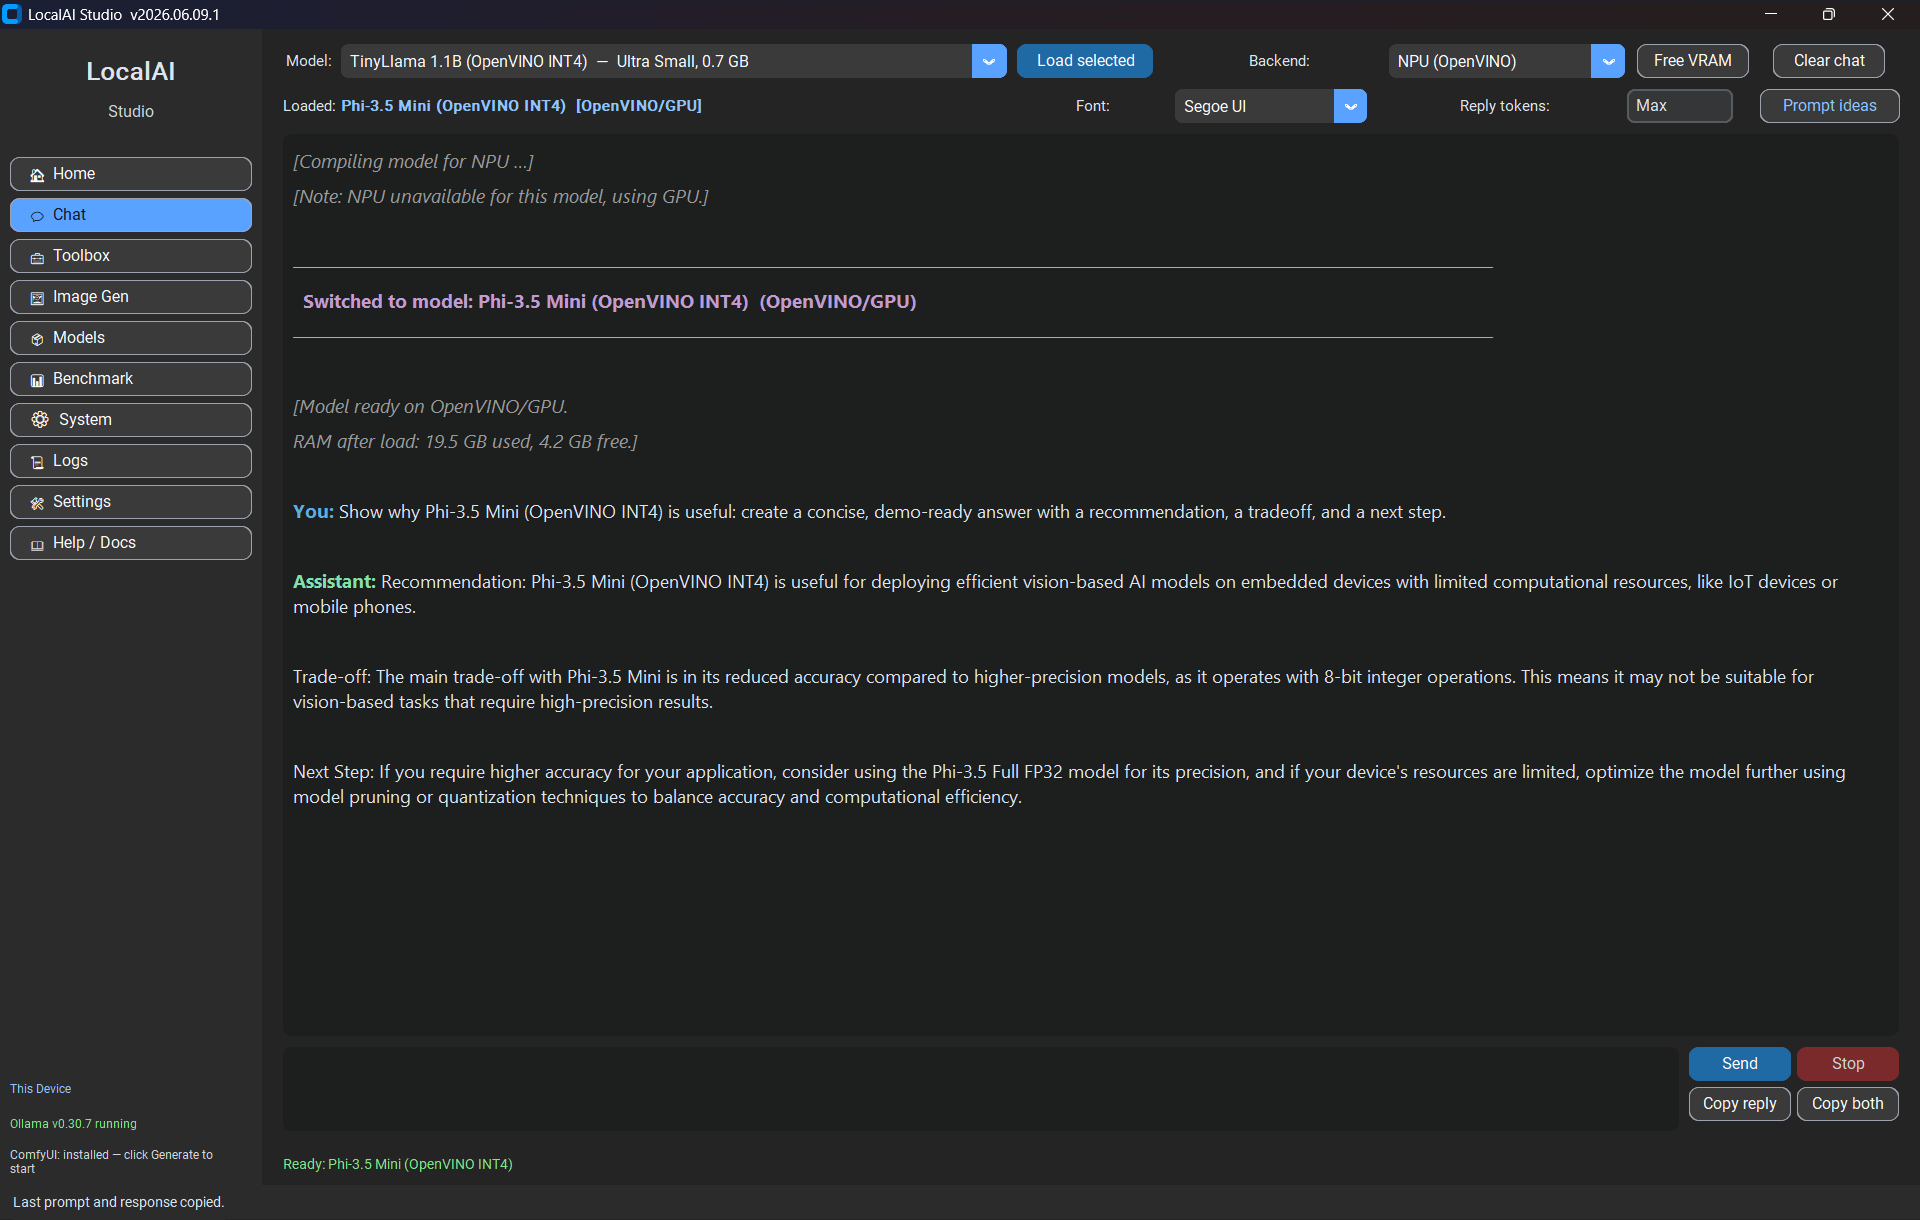
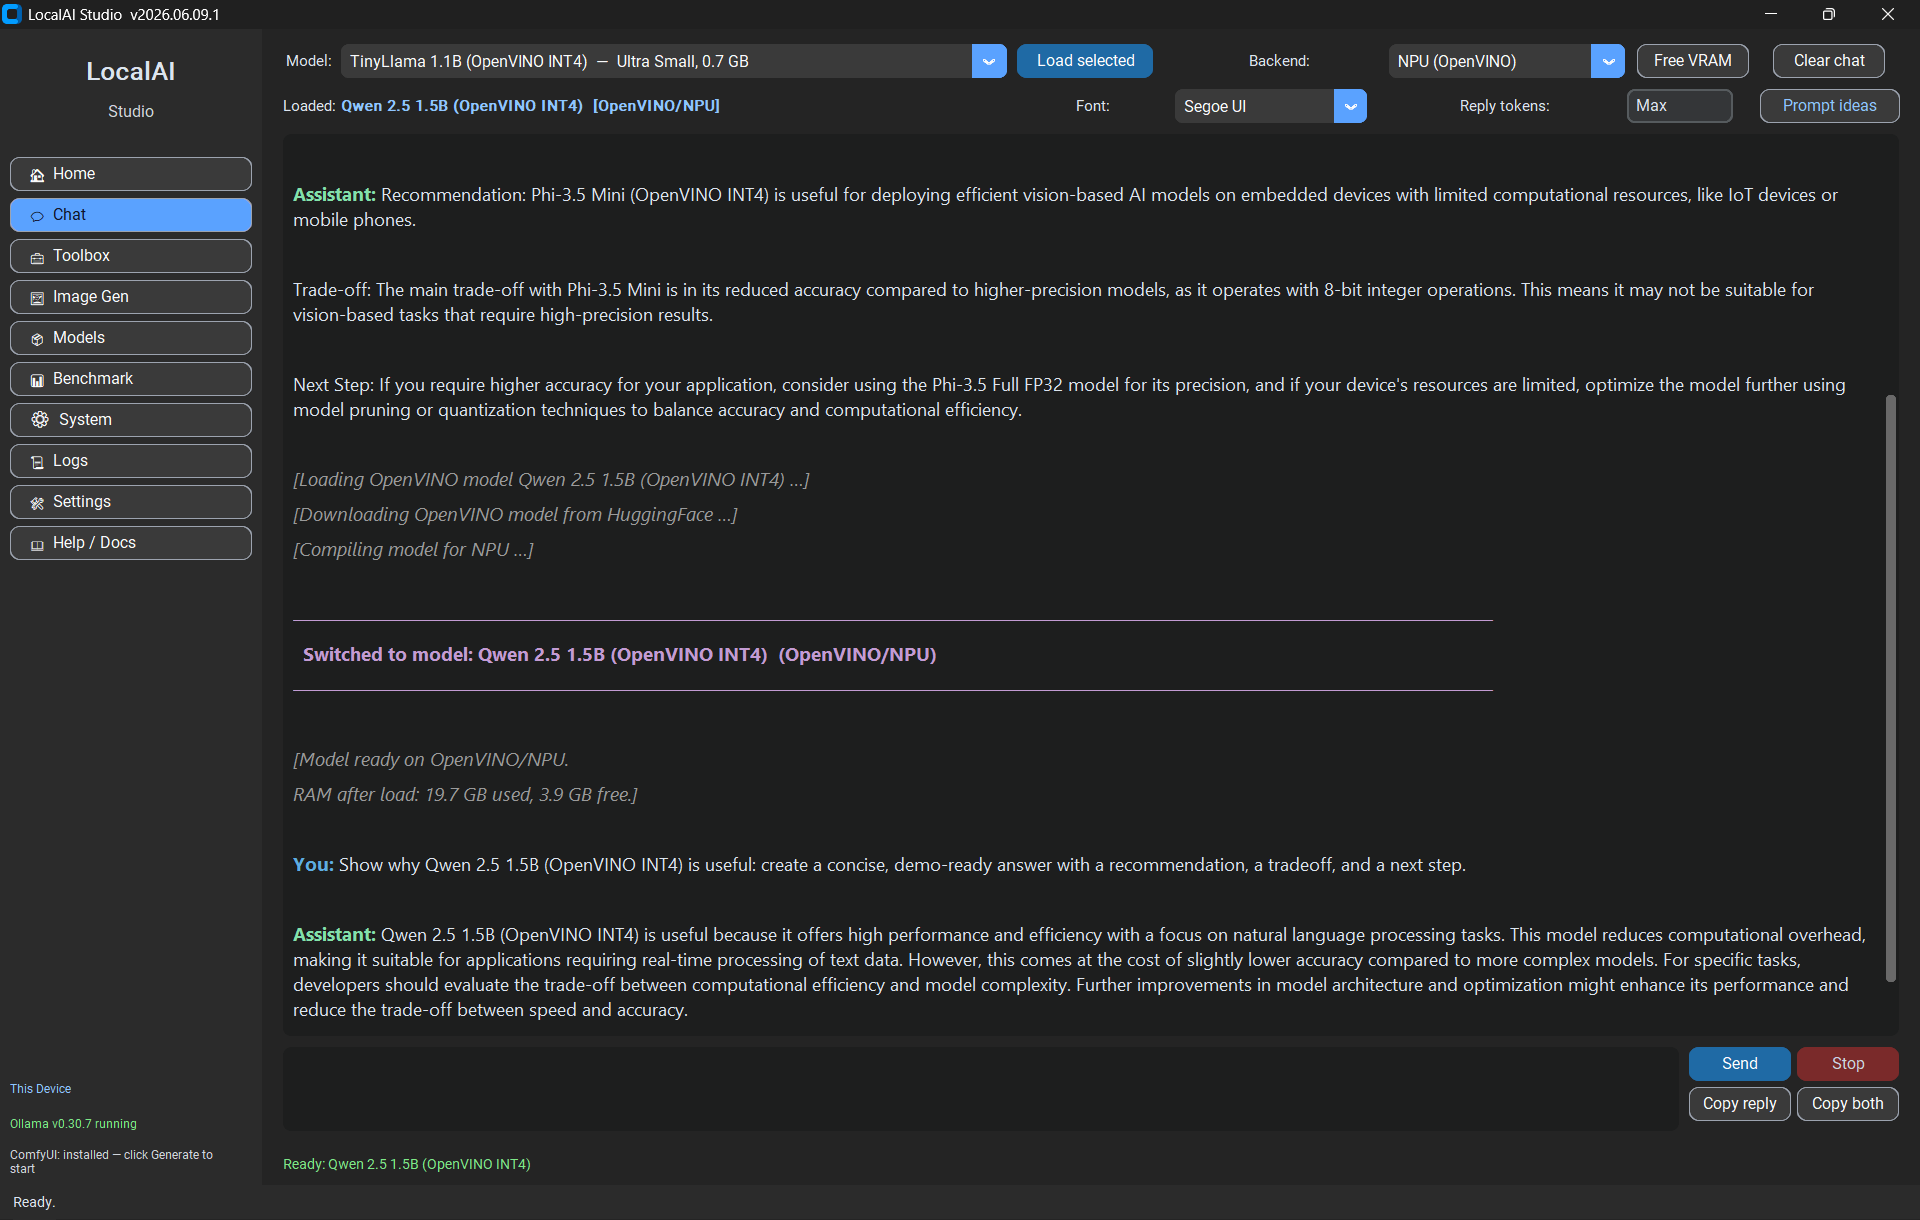
Use a stronger NPU evidence screenshot (model running directly on NPU)

diff --git a/README.md b/README.md
@@ -56,7 +56,7 @@ A quick tour of what LocalAI Studio looks like in use.
 | ![Docs home](docs/screenshots/08-docs-home.png) | **Docs** — built-in offline docs covering setup, models, image gen, and architecture. |
 | ![Model Guide](docs/screenshots/09-docs-model-guide.png) | **Model Guide** — per-model demo gallery, prompts, and notes. |
 | ![Image Gen Guide](docs/screenshots/10-docs-image-gen-guide.png) | **Image Gen Guide** — tips for prompts, refinements, and getting the most out of each base model. |
-| ![NPU acceleration](docs/screenshots/11-npu-openvino.png) | **NPU acceleration** — Intel® AI Boost NPU detected via OpenVINO; INT4 chat models run on the NPU (with automatic NPU→iGPU fallback for larger models). |
+| ![NPU acceleration](docs/screenshots/11-npu-openvino.png) | **NPU acceleration** — INT4 chat running directly on the Intel® AI Boost NPU via OpenVINO (with automatic NPU→iGPU fallback for larger models). |
 
 ## Quick start
 
